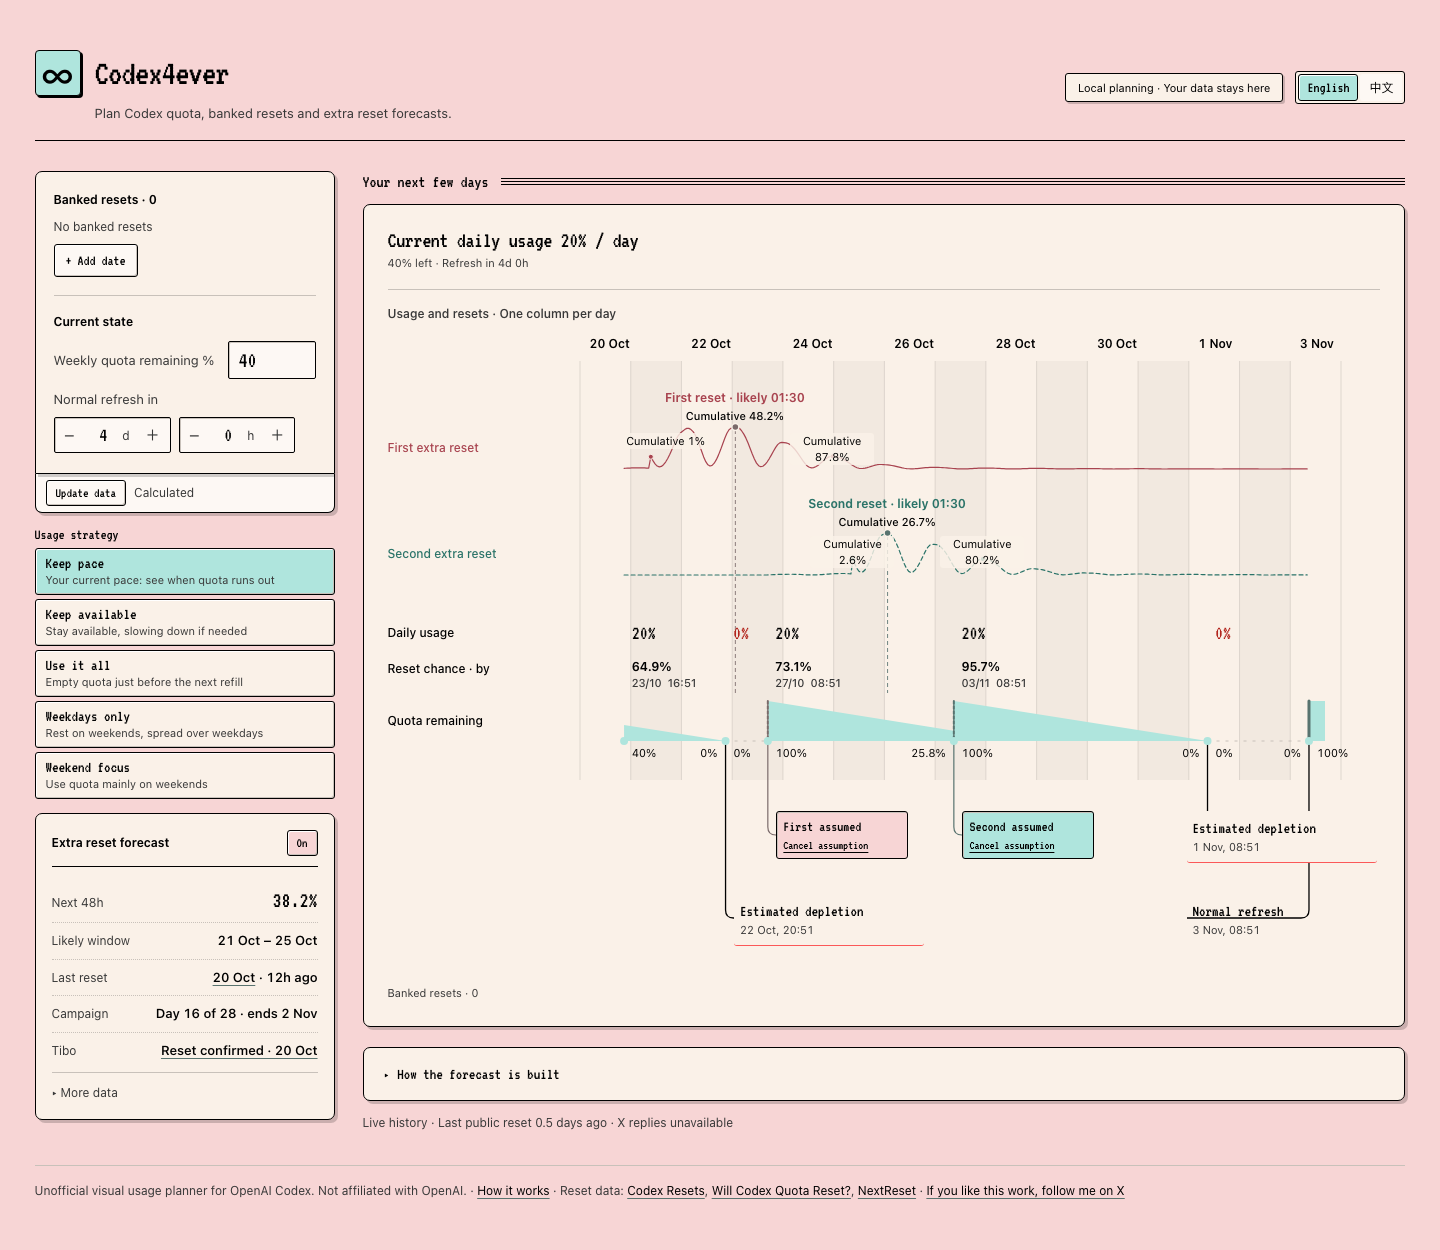
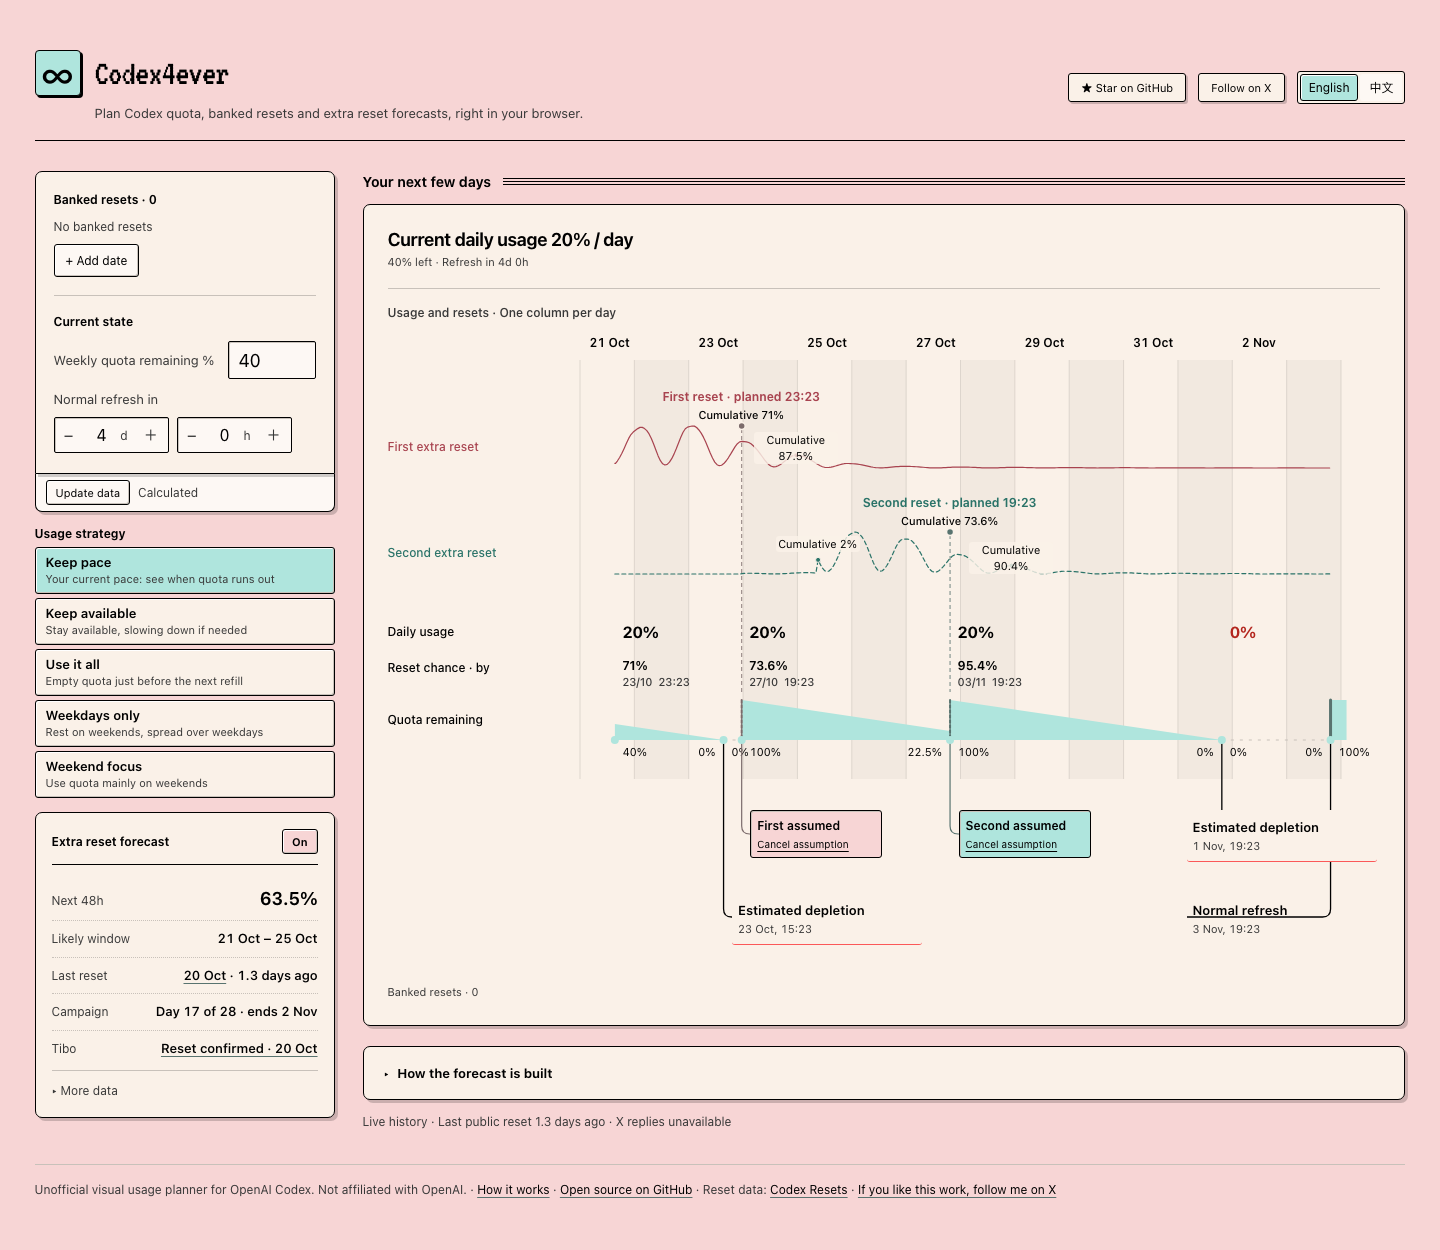
Center the README header with a fresh screenshot and social badges
The old screenshot still showed the removed data sources. Adds X and
Xiaohongshu links to the README and the site footer.

diff --git a/index.html b/index.html
@@ -63,7 +63,7 @@
         <div id="result">Calculate a plan to see your timeline.</div>
       </section>
     </div>
-    <footer><span class="affiliation-notice">Unofficial visual usage planner for OpenAI Codex. Not affiliated with OpenAI.</span> · <a id="planner-guide" href="/guide/">How it works</a> · <a id="source-code" href="https://github.com/ItsOdeLeo/codex4ever" target="_blank" rel="noopener">Open source on GitHub</a> · <span data-credit-label>Reset data</span>: <a href="https://codex-resets.com" target="_blank" rel="noopener">Codex Resets</a> · <a id="creator-contact" href="https://x.com/ItsOdeLeo" target="_blank" rel="noopener noreferrer">If you like this work, follow me on X</a></footer>
+    <footer><span class="affiliation-notice">Unofficial visual usage planner for OpenAI Codex. Not affiliated with OpenAI.</span> · <a id="planner-guide" href="/guide/">How it works</a> · <a id="source-code" href="https://github.com/ItsOdeLeo/codex4ever" target="_blank" rel="noopener">Open source on GitHub</a> · <span data-credit-label>Reset data</span>: <a href="https://codex-resets.com" target="_blank" rel="noopener">Codex Resets</a> · <a id="creator-contact" href="https://x.com/ItsOdeLeo" target="_blank" rel="noopener noreferrer">If you like this work, follow me on X</a> · <a id="creator-xiaohongshu" href="https://xhslink.com/m/18bjTTf180W" target="_blank" rel="noopener noreferrer">小红书 ItsOdeLeo</a></footer>
   </main>
 </body>
 </html>

diff --git a/plugins/codex4ever/web/index.html b/plugins/codex4ever/web/index.html
@@ -63,7 +63,7 @@
         <div id="result">Calculate a plan to see your timeline.</div>
       </section>
     </div>
-    <footer><span class="affiliation-notice">Unofficial visual usage planner for OpenAI Codex. Not affiliated with OpenAI.</span> · <a id="planner-guide" href="/guide/">How it works</a> · <a id="source-code" href="https://github.com/ItsOdeLeo/codex4ever" target="_blank" rel="noopener">Open source on GitHub</a> · <span data-credit-label>Reset data</span>: <a href="https://codex-resets.com" target="_blank" rel="noopener">Codex Resets</a> · <a id="creator-contact" href="https://x.com/ItsOdeLeo" target="_blank" rel="noopener noreferrer">If you like this work, follow me on X</a></footer>
+    <footer><span class="affiliation-notice">Unofficial visual usage planner for OpenAI Codex. Not affiliated with OpenAI.</span> · <a id="planner-guide" href="/guide/">How it works</a> · <a id="source-code" href="https://github.com/ItsOdeLeo/codex4ever" target="_blank" rel="noopener">Open source on GitHub</a> · <span data-credit-label>Reset data</span>: <a href="https://codex-resets.com" target="_blank" rel="noopener">Codex Resets</a> · <a id="creator-contact" href="https://x.com/ItsOdeLeo" target="_blank" rel="noopener noreferrer">If you like this work, follow me on X</a> · <a id="creator-xiaohongshu" href="https://xhslink.com/m/18bjTTf180W" target="_blank" rel="noopener noreferrer">小红书 ItsOdeLeo</a></footer>
   </main>
 </body>
 </html>
